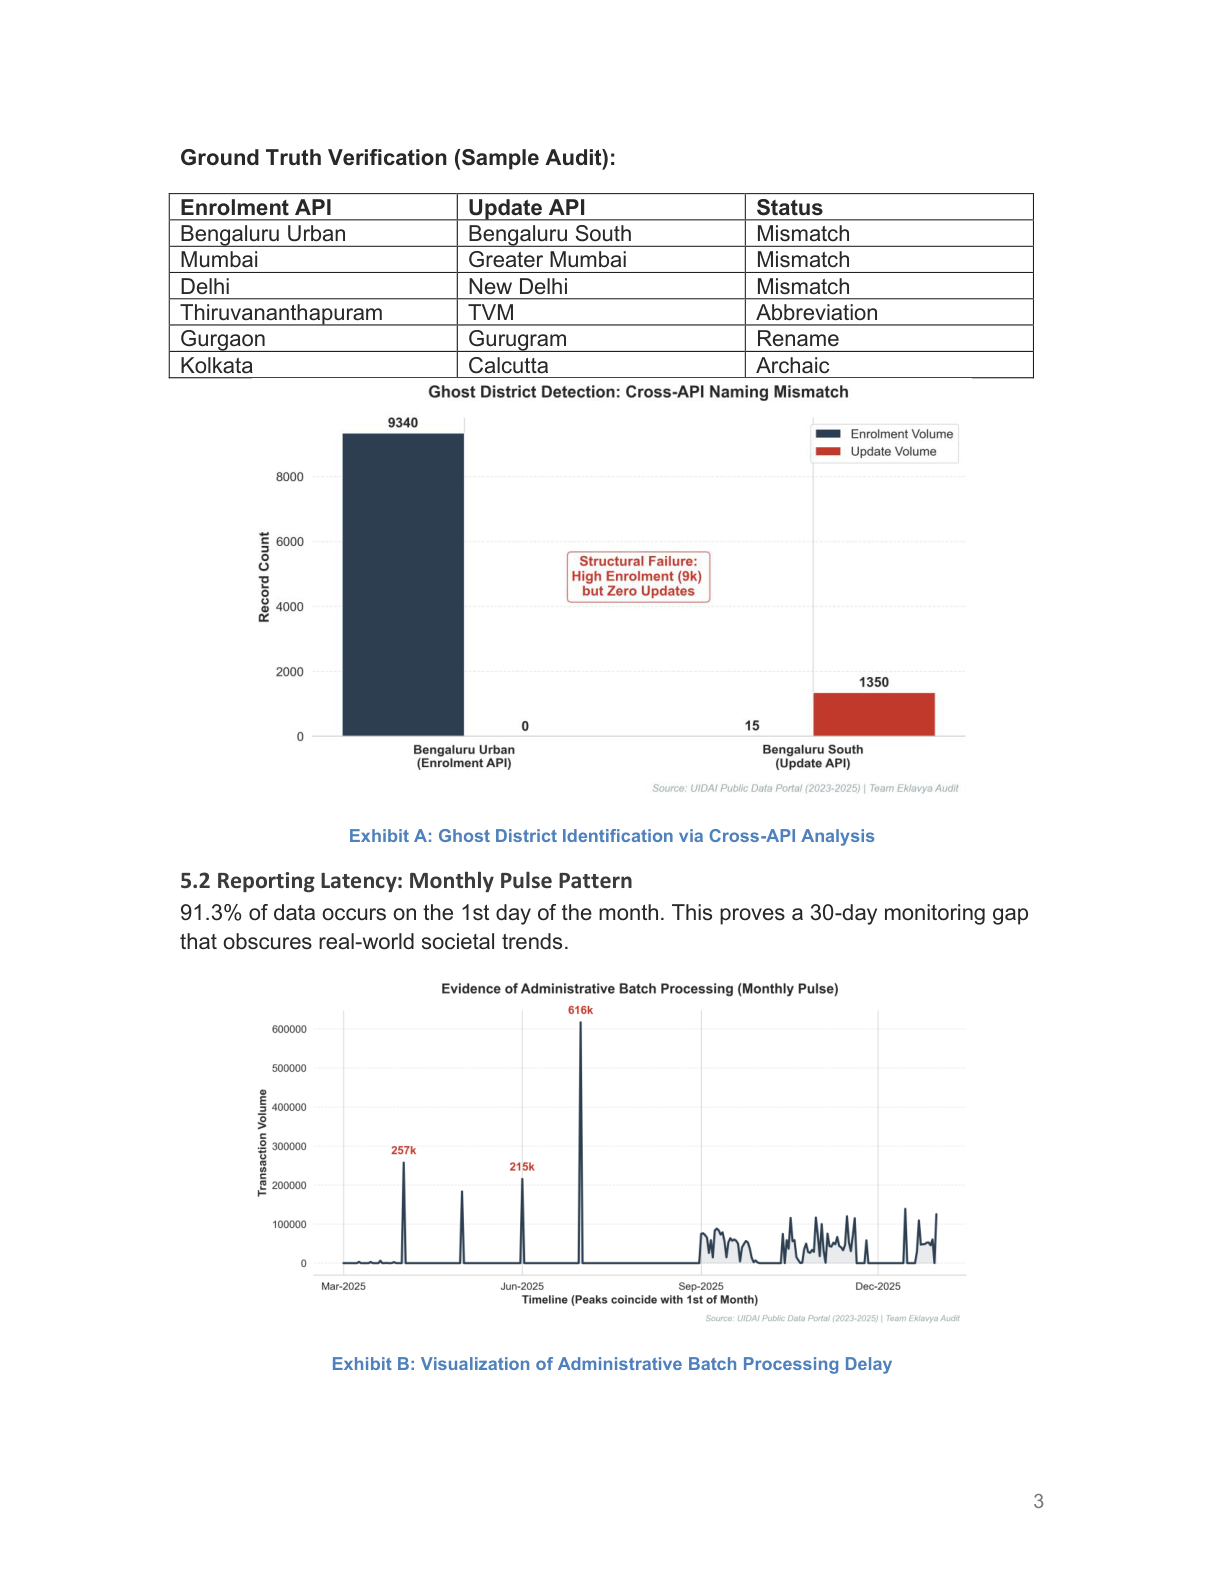
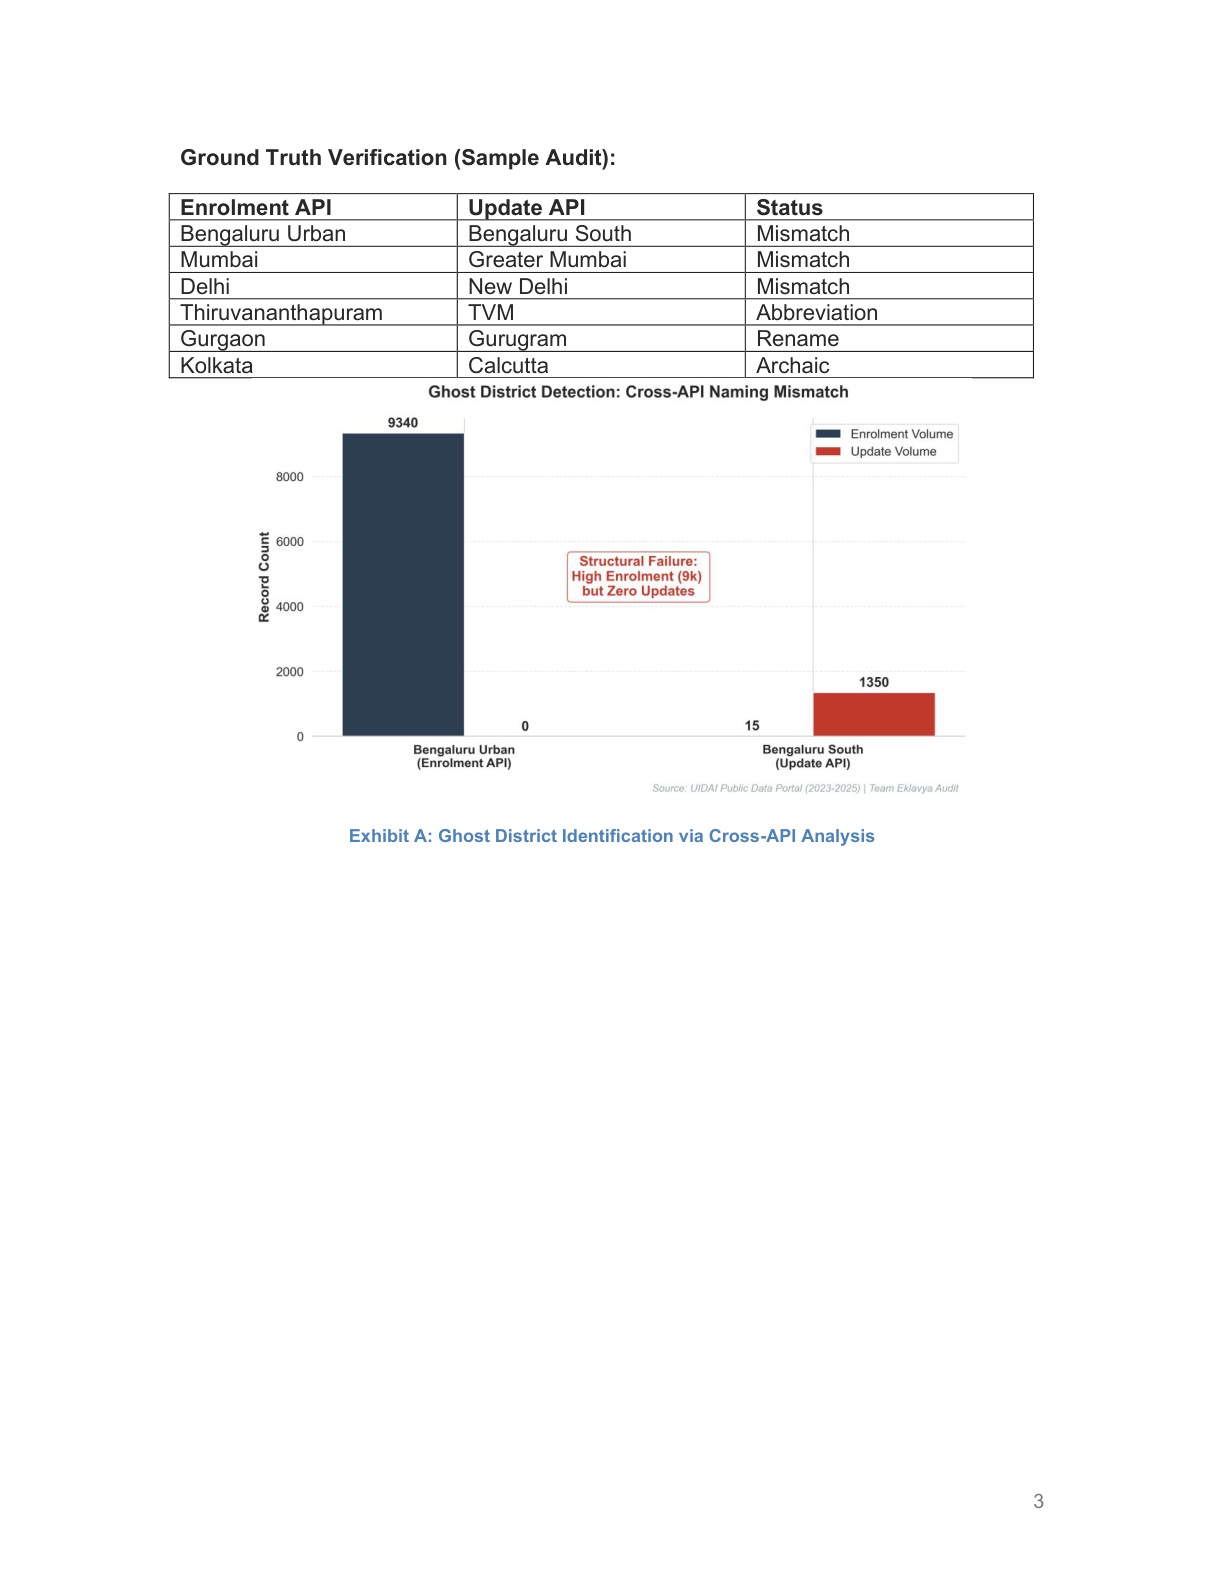
Layout: Dedicated page for Ground Truth and Exhibit A (Page 3)

diff --git a/analysis/build_pro_report.py b/analysis/build_pro_report.py
@@ -219,6 +219,9 @@ def create_submission():
         doc.paragraphs[-1].alignment = WD_ALIGN_PARAGRAPH.CENTER
         doc.add_paragraph("Exhibit A: Ghost District Identification via Cross-API Analysis", style='Caption').alignment = WD_ALIGN_PARAGRAPH.CENTER
 
+    # HARD PAGE BREAK after Exhibit A as requested
+    doc.add_page_break()
+
     # Finding 2
     doc.add_heading("5.2 Reporting Latency: Monthly Pulse Pattern", level=2)
     doc.add_paragraph("91.3% of data occurs on the 1st day of the month. This proves a 30-day monitoring gap that obscures real-world societal trends.")
